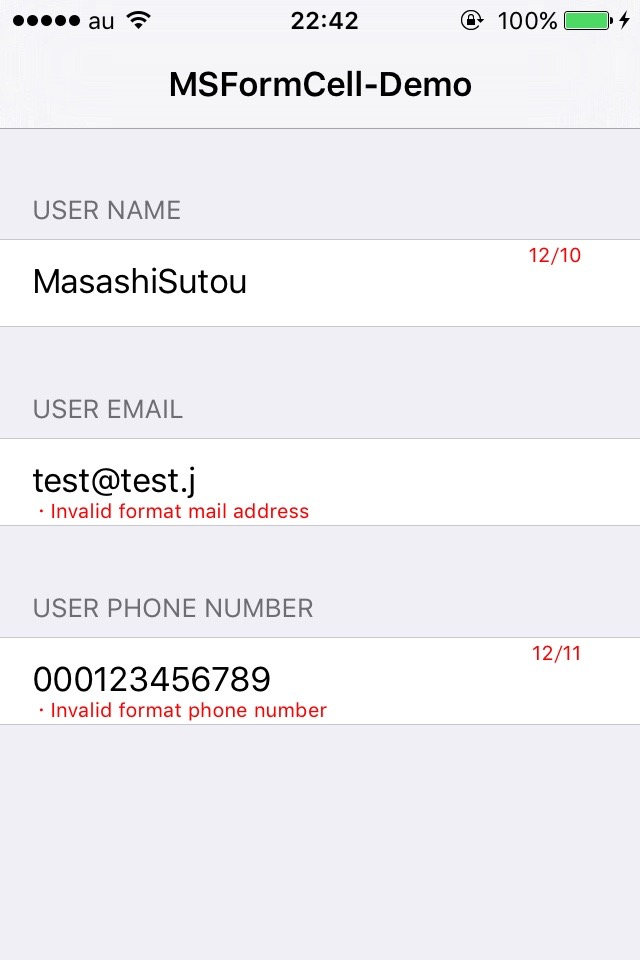
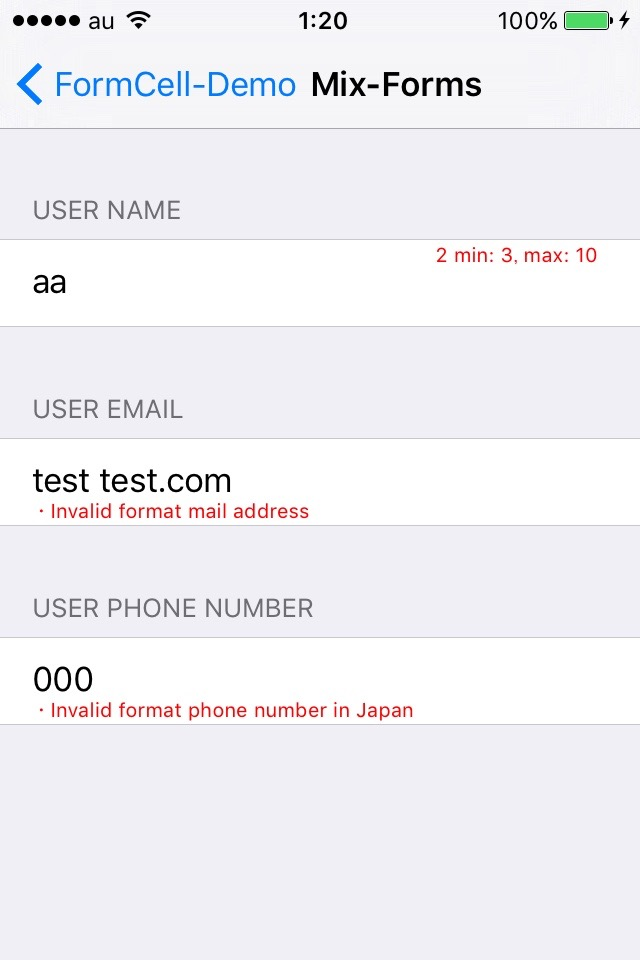
bug fix

diff --git a/FormCell/FormFieldCell.swift b/FormCell/FormFieldCell.swift
@@ -1,6 +1,6 @@
 //
-//  FormCell.swift
-//  FormCell
+//  FormFieldCell.swift
+//  FormFieldCell
 //
 //  Created by 須藤 将史 on 2017/02/19.
 //  Copyright © 2017年 masashi_sutou. All rights reserved.
@@ -38,10 +38,10 @@ private enum LengthPattern: Int {
 }
 
 private extension Selector {
-    static let textFieldChanged = #selector(FormCell.textFieldChanged(_:))
+    static let textFieldChanged = #selector(FormFieldCell.textFieldChanged(_:))
 }
 
-final public class FormCell: UITableViewCell, UITextFieldDelegate {
+final public class FormFieldCell: UITableViewCell, UITextFieldDelegate {
 
     public var textField: UITextField!
 
@@ -59,7 +59,7 @@ final public class FormCell: UITableViewCell, UITextFieldDelegate {
     
     public init(lengthError: (Int, Int)? = nil, pregError:(PregMatchePattern, String?)? = nil, isOptional: Bool = false) {
         
-        super.init(style: .default, reuseIdentifier: "FormCell")
+        super.init(style: .default, reuseIdentifier: "FormFieldCell")
 
         self.selectionStyle = .none
         self.accessoryType = .none
@@ -123,7 +123,7 @@ final public class FormCell: UITableViewCell, UITextFieldDelegate {
         super.layoutSubviews()
         
         self.textField.frame = CGRect(x: self.layoutMargins.left, y: 0, width: self.contentView.frame.width - self.layoutMargins.left - self.layoutMargins.right - 5, height: self.contentView.frame.height)
-        self.currentLengthLabel.frame = CGRect(x: self.textField.frame.width - 60, y: 2, width: 60, height: 12)
+        self.currentLengthLabel.frame = CGRect(x: self.textField.frame.width - 100, y: 2, width: 100, height: 12)
         self.errorMessageLabel.frame = CGRect(x: self.layoutMargins.left, y: self.contentView.frame.height - self.layoutMargins.bottom - 2, width: self.contentView.frame.width - self.layoutMargins.left - self.layoutMargins.right - 5, height: 12)
         self.showLabels()
     }
@@ -213,7 +213,7 @@ final public class FormCell: UITableViewCell, UITextFieldDelegate {
             self.currentLengthLabel.isHidden = true
 
         case .min:
-            self.currentLengthLabel.text = String(format: "%d/%d ~ ∞", currentTextLength, lengthError.max)
+            self.currentLengthLabel.text = String(format: "%d min: %d", currentTextLength, lengthError.min)
             
             if currentTextLength < lengthError.min {
                 self.currentLengthLabel.textColor = .red
@@ -223,7 +223,7 @@ final public class FormCell: UITableViewCell, UITextFieldDelegate {
             self.currentLengthLabel.isHidden = false
         
         case .max:
-            self.currentLengthLabel.text = String(format: "%d/∞ ~ %d", currentTextLength, lengthError.max)
+            self.currentLengthLabel.text = String(format: "%d max: %d", currentTextLength, lengthError.max)
             
             if currentTextLength > lengthError.max {
                 self.currentLengthLabel.textColor = .red
@@ -233,12 +233,12 @@ final public class FormCell: UITableViewCell, UITextFieldDelegate {
             self.currentLengthLabel.isHidden = false
         
         case .range:
-            self.currentLengthLabel.text = String(format: "%d/%d ~ %d", currentTextLength, lengthError.min, lengthError.max)
+            self.currentLengthLabel.text = String(format: "%d min: %d, max: %d", currentTextLength, lengthError.min, lengthError.max)
             
             if lengthError.min...lengthError.max ~= currentTextLength {
-                self.currentLengthLabel.textColor = .red
-            } else {
                 self.currentLengthLabel.textColor = .lightGray
+            } else {
+                self.currentLengthLabel.textColor = .red
             }
             self.currentLengthLabel.isHidden = false
         }
@@ -289,7 +289,7 @@ final public class FormCell: UITableViewCell, UITextFieldDelegate {
             if length == 0 && self.isOptional {
                 return false
             } else {
-                return lengthError.min...lengthError.max ~= length
+                return !(lengthError.min...lengthError.max ~= length)
             }
         }
     }

diff --git a/Demo/MixViewController.swift b/Demo/MixViewController.swift
@@ -32,6 +32,8 @@ final class MixViewController: UITableViewController {
         self.navigationItem.title = "Mix-Forms"
         self.tableView = UITableView.init(frame: self.view.frame, style: .grouped)
     }
+        
+    // MARK: - UITableViewDelegate, UITableViewDataSource
     
     override func numberOfSections(in tableView: UITableView) -> Int {
         return 3
@@ -61,11 +63,11 @@ final class MixViewController: UITableViewController {
         switch indexPath.section {
         case 0:
             
-            let cell = FormCell(lengthError: (0, 10))
+            let cell = FormFieldCell(lengthError: (3, 10))
             cell.editField(beginEditing: nil, textChanged: { (text) in
                 self.user.name = text
             }, didReturn: {
-                if let cell = tableView.cellForRow(at: indexPath) as? FormCell {
+                if let cell = tableView.cellForRow(at: indexPath) as? FormFieldCell {
                     cell.textField.resignFirstResponder()
                 }
             })
@@ -77,11 +79,11 @@ final class MixViewController: UITableViewController {
             
         case 1:
             
-            let cell = FormCell(pregError: (.email, nil))
+            let cell = FormFieldCell(pregError: (.email, nil), isOptional: true)
             cell.editField(beginEditing: nil, textChanged: { (text) in
                 self.user.email = text
             }, didReturn: { 
-                if let cell = tableView.cellForRow(at: indexPath) as? FormCell {
+                if let cell = tableView.cellForRow(at: indexPath) as? FormFieldCell {
                     cell.textField.resignFirstResponder()
                 }
             })
@@ -93,11 +95,11 @@ final class MixViewController: UITableViewController {
             
         case 2:
             
-            let cell = FormCell(lengthError: (0, 11), pregError: (.phone, "Invalid format phone number in Japan"))
+            let cell = FormFieldCell(lengthError: (0, 11), pregError: (.phone, "Invalid format phone number in Japan"))
             cell.editField(beginEditing: nil, textChanged: { (text) in
                 self.user.tel = text
             }, didReturn: {
-                if let cell = tableView.cellForRow(at: indexPath) as? FormCell {
+                if let cell = tableView.cellForRow(at: indexPath) as? FormFieldCell {
                     cell.textField.resignFirstResponder()
                 }
             })

diff --git a/Demo/OptionalViewController.swift b/Demo/OptionalViewController.swift
@@ -33,6 +33,8 @@ final class OptionalViewController: UITableViewController {
         self.tableView = UITableView.init(frame: self.view.frame, style: .grouped)
     }
     
+    // MARK: - UITableViewDelegate, UITableViewDataSource
+    
     override func numberOfSections(in tableView: UITableView) -> Int {
         return 3
     }
@@ -61,11 +63,11 @@ final class OptionalViewController: UITableViewController {
         switch indexPath.section {
         case 0:
             
-            let cell = FormCell(lengthError: (0, 10), isOptional: true)
+            let cell = FormFieldCell(isOptional: true)
             cell.editField(beginEditing: nil, textChanged: { (text) in
                 self.user.name = text
             }, didReturn: { 
-                if let cell = tableView.cellForRow(at: indexPath) as? FormCell {
+                if let cell = tableView.cellForRow(at: indexPath) as? FormFieldCell {
                     cell.textField.resignFirstResponder()
                 }
             })
@@ -77,11 +79,11 @@ final class OptionalViewController: UITableViewController {
             
         case 1:
             
-            let cell = FormCell(pregError: (.email, nil), isOptional: true)
+            let cell = FormFieldCell(pregError: (.email, nil), isOptional: true)
             cell.editField(beginEditing: nil, textChanged: { (text) in
                 self.user.email = text
             }, didReturn: {
-                if let cell = tableView.cellForRow(at: indexPath) as? FormCell {
+                if let cell = tableView.cellForRow(at: indexPath) as? FormFieldCell {
                     cell.textField.resignFirstResponder()
                 }
             })
@@ -93,11 +95,11 @@ final class OptionalViewController: UITableViewController {
             
         case 2:
             
-            let cell = FormCell(lengthError: (0, 11), pregError: (.phone, nil), isOptional: true)
+            let cell = FormFieldCell(lengthError: (0, 11), pregError: (.phone, nil), isOptional: true)
             cell.editField(beginEditing: nil, textChanged: { (text) in
                 self.user.tel = text
             }, didReturn: { 
-                if let cell = tableView.cellForRow(at: indexPath) as? FormCell {
+                if let cell = tableView.cellForRow(at: indexPath) as? FormFieldCell {
                     cell.textField.resignFirstResponder()
                 }
             })

diff --git a/Demo/MandatoryViewController.swift b/Demo/MandatoryViewController.swift
@@ -33,6 +33,8 @@ final class MandatoryViewController: UITableViewController {
         self.tableView = UITableView.init(frame: self.view.frame, style: .grouped)
     }
     
+    // MARK: - UITableViewDelegate, UITableViewDataSource
+    
     override func numberOfSections(in tableView: UITableView) -> Int {
         return 3
     }
@@ -61,11 +63,11 @@ final class MandatoryViewController: UITableViewController {
         switch indexPath.section {
         case 0:
             
-            let cell = FormCell(lengthError: (0, 10))
+            let cell = FormFieldCell(lengthError: (3, 0))
             cell.editField(beginEditing: nil, textChanged: { (text) in
                 self.user.name = text
             }, didReturn: { 
-                if let cell = tableView.cellForRow(at: indexPath) as? FormCell {
+                if let cell = tableView.cellForRow(at: indexPath) as? FormFieldCell {
                     cell.textField.resignFirstResponder()
                 }
             })
@@ -77,11 +79,11 @@ final class MandatoryViewController: UITableViewController {
             
         case 1:
 
-            let cell = FormCell(pregError: (.email, nil))
+            let cell = FormFieldCell(pregError: (.email, nil))
             cell.editField(beginEditing: nil, textChanged: { (text) in
                 self.user.email = text
             }, didReturn: {
-                if let cell = tableView.cellForRow(at: indexPath) as? FormCell {
+                if let cell = tableView.cellForRow(at: indexPath) as? FormFieldCell {
                     cell.textField.resignFirstResponder()
                 }
             })
@@ -93,11 +95,11 @@ final class MandatoryViewController: UITableViewController {
 
         case 2:
             
-            let cell = FormCell(lengthError: (0, 11), pregError: (.phone, nil))
+            let cell = FormFieldCell(lengthError: (0, 11), pregError: (.phone, nil))
             cell.editField(beginEditing: nil, textChanged: { (text) in
                 self.user.tel = text
             }, didReturn: {
-                if let cell = tableView.cellForRow(at: indexPath) as? FormCell {
+                if let cell = tableView.cellForRow(at: indexPath) as? FormFieldCell {
                     cell.textField.resignFirstResponder()
                 }
             })

diff --git a/README.md b/README.md
@@ -19,11 +19,11 @@ Demo |
 
 override func tableView(_ tableView: UITableView, cellForRowAt indexPath: IndexPath) -> UITableViewCell {
 
-    let cell = FormCell(lengthError: (0, 11), pregError: (.phone, nil))
+    let cell = FormFieldCell(lengthError: (0, 11), pregError: (.phone, nil))
     cell.editField(beginEditing: nil, textChanged: { (text) in
         self.user.tel = text
     }, didReturn: {
-        if let cell = tableView.cellForRow(at: indexPath) as? FormCell {
+        if let cell = tableView.cellForRow(at: indexPath) as? FormFieldCell {
             cell.textField.resignFirstResponder()
         }
     })
